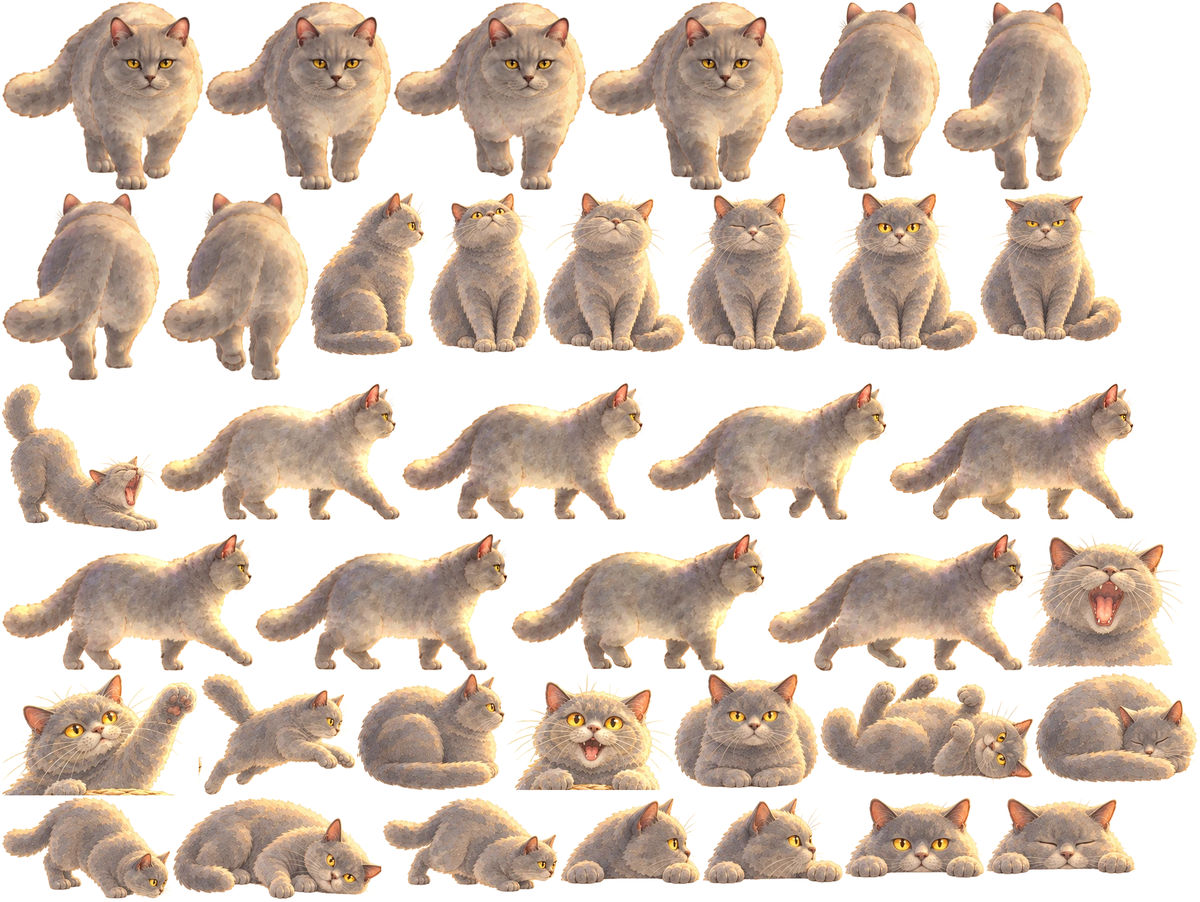
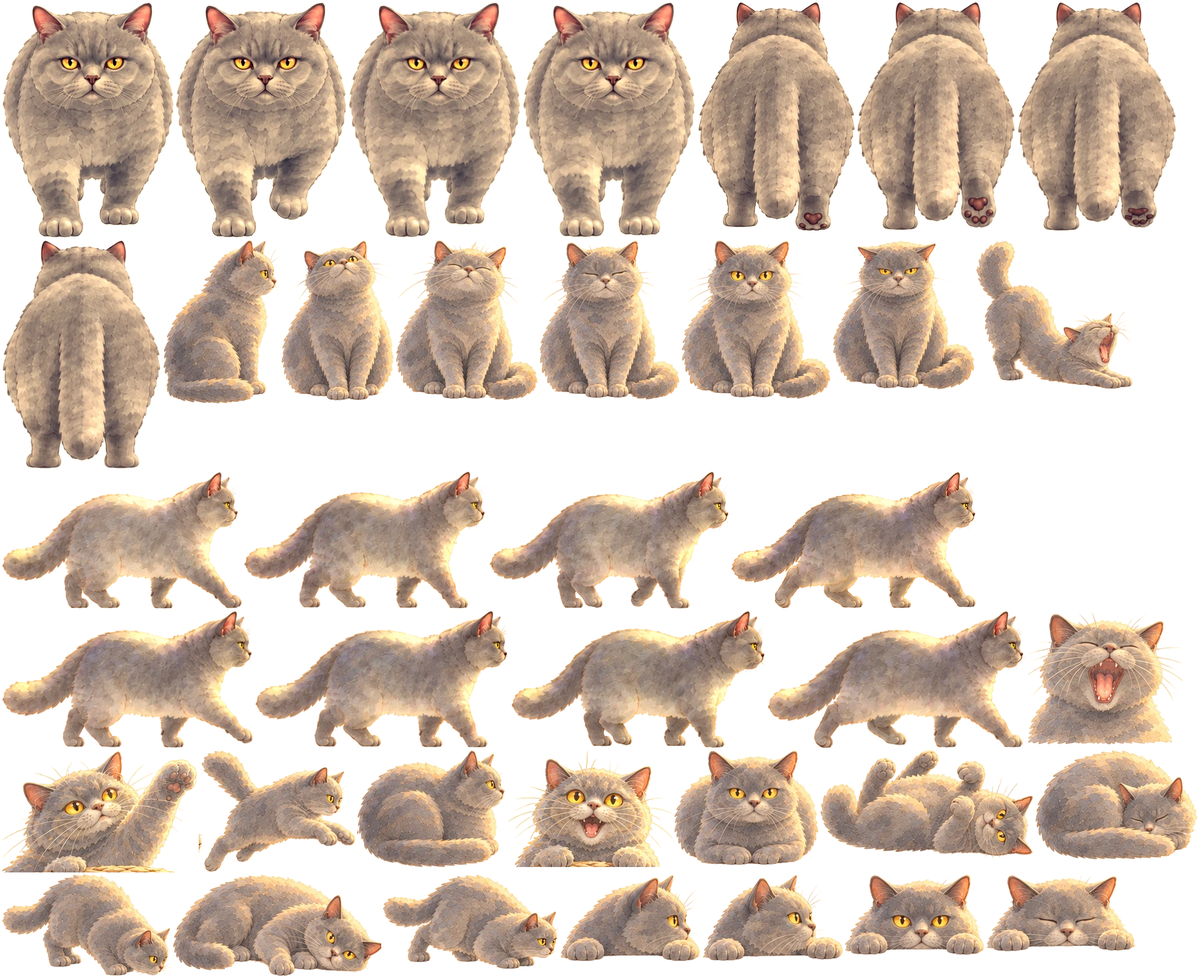
Pack Erwu's new front and back walks; fix the movement prompts' references
- The art build packs erwu-walk-front-4 and erwu-walk-back-4 (recoloured
  to her poses) in place of the retired erwu-walk-updown sheet.
- The game walks them as eight frames: the four drawn half-stride, then
  the same four mirrored, so her left and right paws take turns.
- ART-PROMPTS 8f: review of the correction batch and a check of every
  reference. The side walk's two half-strides share one outline, so a
  crop can't say which leg is nearer; prompts now name the legs for each
  frame, anchor each diagonal on a kept frame, and take the face from
  her front-facing sit. Lists the remaining diagonal frames and an
  optional face and light edit for the front and back sheets.

Claude-Session: https://claude.ai/code/session_01GWXKSyEvwFsod5xmdCeR4s

diff --git a/art-manifest.js b/art-manifest.js
@@ -1,5 +1,5 @@
 /* Generated by tools/build-art.cjs from the painted source sheets in assets/. Do not edit by hand. */
 (function (root) { 'use strict';
-  const ART = {"note":"frame: [x, y, w, h, anchorX, anchorY, sourceX, sourceY, bedRimWidth?]; anchors are where a piece meets the ground","erwu":{"src":"assets/erwu.webp","size":[2005,1506],"frames":{"sit-front":[1385,321,249,265,125,265,39,45],"sit-drowsy":[1148,321,234,266,117,266,321,44],"sit-content":[907,321,238,267,119,267,579,44],"curl":[1729,1124,273,183,137,183,834,129],"sniff":[3,1331,283,172,142,172,7,380],"stalk":[640,1331,294,159,147,159,292,393],"pounce":[332,1124,262,203,131,203,578,344],"stretch":[3,639,261,249,131,249,852,321],"loaf":[1127,1124,241,192,121,192,27,638],"sit-side":[518,321,195,273,98,273,299,568],"belly-up":[1371,1124,355,184,178,184,495,662],"yawn":[1718,891,258,223,129,223,851,618],"peek":[1412,1331,233,136,117,136,25,902],"peek-glance":[937,1331,234,147,117,147,296,891],"peek-turn":[1174,1331,235,146,118,146,568,893],"peek-sleepy":[1648,1331,250,130,125,130,842,910],"look-up":[716,321,188,269,94,269,632,1055],"sit-grumpy":[1637,321,237,250,119,250,868,1076],"lie-side":[289,1331,348,171,174,171,11,1137],"loaf-side":[597,1124,249,196,125,196,360,1119],"walk-0":[267,639,402,230,238,230,22,158],"walk-1":[672,639,406,230,240,230,451,159],"walk-2":[1081,639,401,230,241,230,890,159],"walk-3":[1485,639,410,230,250,230,1323,158],"walk-4":[3,891,421,230,246,230,24,503],"walk-5":[427,891,424,230,251,230,452,504],"walk-6":[854,891,426,230,252,230,888,508],"walk-7":[1283,891,432,230,257,230,1320,504],"walk-front-0":[3,3,337,315,193,315,75,105],"walk-front-1":[343,3,311,315,178,315,493,105],"walk-front-2":[657,3,322,315,185,315,902,104],"walk-front-3":[982,3,327,315,188,315,1324,105],"walk-back-0":[1312,3,259,315,156,315,117,477],"walk-back-1":[1574,3,249,315,144,315,536,477],"walk-back-2":[3,321,265,315,159,315,941,476],"walk-back-3":[271,321,244,315,141,315,1381,477],"swat":[3,1124,326,204,163,204,775,820],"delighted":[849,1124,275,195,138,195,1102,829]}},"garden":{"src":"assets/garden.webp","size":[2032,1938],"frames":{"rose-bed":[3,3,442,403,221,403,17,17],"fountain":[898,3,288,386,144,386,481,29],"log":[461,409,447,337,224,337,792,99],"cushion":[1686,1084,343,205,172,205,34,455],"stone":[834,1692,292,148,146,148,470,492],"step-0":[191,1852,186,81,93,81,903,443],"step-1":[3,1852,185,83,93,83,1043,488],"step-2":[1614,1692,193,101,97,101,819,520],"step-3":[1810,1692,200,95,100,95,991,569],"bed-empty":[1034,1084,384,233,192,233,21,685,385],"bed-seedlings":[658,1084,373,236,187,236,439,687,385],"bed-young":[3,1084,391,251,196,251,841,675,385],"bed-full":[911,409,401,305,201,305,19,919,385],"grass":[1315,409,401,302,201,302,426,926],"meadow":[3,782,410,299,205,299,828,927],"bloom-cosmos":[1731,782,258,253,129,253,11,153,259],"bloom-catnip":[1466,782,262,257,131,257,370,153,259],"bloom-sunflower":[416,782,261,279,131,279,731,122,259],"bloom-moonflower":[1203,782,260,259,130,259,1094,149,259],"bloom-dandelion":[397,1084,258,245,129,245,11,600,259],"bloom-bleeding-heart":[680,782,260,266,130,266,369,570,259],"bloom-strawberry":[1421,1084,262,227,131,227,729,624,259],"bloom-lavender":[943,782,257,260,129,260,1094,580,259],"clump-daisy":[1310,1526,163,157,82,157,29,50],"clump-forget":[484,1526,160,161,80,161,351,42],"clump-cosmos":[3,1526,151,163,76,163,660,38],"clump-lavender":[158,1338,154,175,77,175,962,20],"clump-clover":[1476,1526,157,157,79,157,32,358],"clump-buttercup":[473,1338,155,170,78,170,350,342],"clump-foxglove":[3,1338,152,185,76,185,663,319],"clump-bluebell":[631,1338,158,170,79,170,964,343],"clump-rose":[792,1338,169,168,85,168,26,640],"clump-fern":[166,1692,182,156,91,156,327,655],"clump-grass":[1636,1526,174,157,87,157,648,651],"clump-mushroom":[1467,1692,144,126,72,126,978,711],"clump-wild":[1472,1338,173,165,87,165,25,946],"clump-sweetpea":[315,1338,155,172,78,172,356,934],"clump-cornflower":[157,1526,155,163,78,163,661,948],"clump-leafy":[1295,1692,169,141,84,141,955,980],"clump-tulip":[679,1692,152,149,76,149,33,53],"clump-peony":[1813,1526,161,157,81,157,339,38],"clump-poppy":[647,1526,157,160,78,160,654,34],"clump-aster":[515,1692,161,151,81,151,961,52],"clump-crocus":[1129,1692,163,142,81,142,24,361],"clump-daffodil":[1303,1338,166,166,83,166,330,329],"clump-snowdrop":[351,1692,161,154,81,154,645,346],"clump-forget-spring":[3,1692,160,157,80,157,963,338],"clump-sedum":[1142,1526,165,158,83,158,23,644],"clump-seedgrass":[964,1338,178,167,89,167,321,628],"clump-autumn-shrub":[1648,1338,172,165,86,165,639,632],"clump-coneflower":[807,1526,157,160,79,160,967,639],"clump-hellebore":[315,1526,166,163,83,163,26,940],"clump-holly":[1823,1338,161,164,81,164,335,934],"clump-twigs":[1145,1338,155,167,77,167,648,934],"clump-frost-grass":[967,1526,172,159,86,159,944,941],"rose-bed-spring":[1189,3,418,380,209,380,93,84],"rose-bed-autumn":[448,3,447,401,223,401,58,29],"rose-bed-winter":[3,409,455,370,228,370,37,94]},"basket":{"cx":255,"cy":237,"rx":85,"ry":40,"outerRx":93,"outerRy":49,"bottom":318},"baskets":{"spring":{"cx":219.225,"cy":205.535,"rx":80.17899999999999,"ry":37.74,"outerRx":87.727,"outerRy":46.213,"bottom":281.90299999999996},"autumn":{"cx":230.547,"cy":210.604,"rx":88.171,"ry":41.477,"outerRx":96.45899999999999,"outerRy":50.838,"bottom":294.594},"winter":{"cx":241.31400000000002,"cy":182.632,"rx":92.241,"ry":43.400999999999996,"outerRx":100.899,"outerRy":53.169,"bottom":270.54400000000004}}},"visitors":{"src":"assets/visitors.webp","size":[2014,344],"frames":{"bluejay-perch":[1070,3,133,118,66,118,39,90],"bluejay-drink":[686,261,149,69,74,69,332,182],"bluejay-fly":[3,3,150,148,75,148,679,28],"cardinal-perch":[561,3,136,127,68,127,29,377],"cardinal-peck":[838,261,135,68,67,68,356,489],"cardinal-fly":[156,3,143,143,72,143,701,345],"junco-stand":[1187,154,117,82,59,82,43,725],"junco-peck":[1038,261,113,67,57,67,387,753],"junco-hop":[1386,154,119,81,59,81,712,708],"goldfinch-perch":[1574,3,115,111,57,111,45,958],"goldfinch-peck":[1681,154,120,80,60,80,369,1022],"goldfinch-fly":[433,3,125,135,62,135,736,888],"hummingbird-hover":[1206,3,138,117,69,117,39,1218],"hummingbird-feed":[338,154,153,103,77,103,378,1224],"hummingbird-perch":[3,154,105,104,53,104,768,1251],"cottontail-sit":[1692,3,98,110,49,110,73,33],"cottontail-nibble":[114,261,117,79,58,79,336,104],"cottontail-hop":[801,154,132,93,66,93,604,51],"squirrel-sit":[111,154,114,104,57,104,35,291],"squirrel-run":[936,154,159,91,80,91,286,314],"squirrel-dig":[1347,3,120,112,60,112,606,292],"chipmunk-sit":[1307,154,76,82,38,82,91,557],"chipmunk-cheeks":[1508,154,74,81,37,81,380,558],"chipmunk-run":[1585,261,139,56,69,56,587,590],"frog-sit":[1516,261,66,58,33,58,78,789],"frog-jump":[234,261,112,79,56,79,328,764],"frog-puff":[1437,261,76,60,38,60,671,787],"fox-stand":[936,3,131,120,65,120,15,940],"fox-walk":[1793,3,171,107,85,107,288,965],"fox-sit":[844,3,89,123,44,123,668,936],"bumblebee-side":[707,154,91,97,46,97,78,1224],"bumblebee-top":[1804,154,106,80,53,80,334,1242],"bumblebee-rest":[605,261,78,72,39,72,692,1245],"lunamoth-open":[700,3,141,127,70,127,30,1464],"lunamoth-side":[302,3,128,138,64,138,336,1438],"lunamoth-rest":[1470,3,101,112,50,112,637,1490],"feather":[349,261,77,79,39,79,69,97],"maple-leaf":[1098,154,86,83,43,83,367,79],"oak-leaf":[1585,154,93,81,47,81,666,92],"acorn":[1727,261,46,56,23,56,1047,119],"pine-cone":[976,261,59,68,30,68,86,393],"pebble":[1776,261,60,49,30,49,400,420],"cosmos-head":[429,261,92,75,46,75,671,386],"daisy-head":[1251,261,78,66,39,66,994,400],"acorn-shells":[524,261,78,74,39,74,83,674],"dug-earth":[1332,261,102,66,51,66,343,692],"seed-husks":[1154,261,94,67,47,67,665,681],"nibbled-clover":[1913,154,98,80,49,80,961,666],"rabbit-tracks":[494,154,103,101,51,101,33,935],"bird-tracks":[600,154,104,99,52,99,341,942],"fox-tracks":[228,154,107,104,53,104,646,932],"splash":[3,261,108,80,54,80,956,972]}},"play":{"src":"assets/play.webp","size":[2036,473],"frames":{"petal-white":[1382,257,214,134,107,134,48,78],"petal-pink":[1171,257,208,143,104,143,330,69],"centre":[1014,257,154,145,77,145,626,76],"pollen":[1599,257,104,109,52,109,926,100],"sun":[807,257,204,201,102,201,1146,42],"bud-tulip":[1844,3,189,213,95,213,64,292],"bud-rose":[211,257,201,212,101,212,326,295],"bud-peony":[3,257,205,213,103,213,591,293],"bud-poppy":[415,257,196,211,98,211,876,294],"bud-bell":[614,257,190,206,95,206,1143,301],"open-tulip":[237,3,230,247,115,247,36,537],"open-rose":[1482,3,242,231,121,231,295,548],"open-peony":[980,3,246,238,123,238,570,544],"open-poppy":[1229,3,250,236,125,236,844,549],"open-bell":[3,3,231,251,116,251,1134,534],"basket":[470,3,309,245,155,245,22,821],"seed-pod":[1727,3,114,217,57,217,390,838],"dandelion":[782,3,195,240,98,240,558,819]},"basket":{"cx":178,"cy":925,"rx":125,"ry":50,"outerRx":153,"outerRy":80,"bottom":1062}},"lawn":{"src":"assets/garden-plate-summer.webp","seasons":{"spring":"assets/garden-plate-spring.webp","summer":"assets/garden-plate-summer.webp","autumn":"assets/garden-plate-autumn.webp","winter":"assets/garden-plate-winter.webp"},"fountain":{"x":0.205,"y":0.268,"width":0.27},"log":{"x":0.835,"y":0.262,"width":0.29}}};
+  const ART = {"note":"frame: [x, y, w, h, anchorX, anchorY, sourceX, sourceY, bedRimWidth?]; anchors are where a piece meets the ground","erwu":{"src":"assets/erwu.webp","size":[2005,1635],"frames":{"sit-front":[1139,401,249,265,125,265,39,45],"sit-drowsy":[902,401,234,266,117,266,321,44],"sit-content":[661,401,238,267,119,267,579,44],"curl":[1729,1253,273,183,137,183,834,129],"sniff":[3,1460,283,172,142,172,7,380],"stalk":[640,1460,294,159,147,159,292,393],"pounce":[332,1253,262,203,131,203,578,344],"stretch":[1631,401,261,249,131,249,852,321],"loaf":[1127,1253,241,192,121,192,27,638],"sit-side":[272,401,195,273,98,273,299,568],"belly-up":[1371,1253,355,184,178,184,495,662],"yawn":[1718,1020,258,223,129,223,851,618],"peek":[1412,1460,233,136,117,136,25,902],"peek-glance":[937,1460,234,147,117,147,296,891],"peek-turn":[1174,1460,235,146,118,146,568,893],"peek-sleepy":[1648,1460,250,130,125,130,842,910],"look-up":[470,401,188,269,94,269,632,1055],"sit-grumpy":[1391,401,237,250,119,250,868,1076],"lie-side":[289,1460,348,171,174,171,11,1137],"loaf-side":[597,1253,249,196,125,196,360,1119],"walk-0":[3,787,402,230,238,230,22,158],"walk-1":[408,787,406,230,240,230,451,159],"walk-2":[817,787,401,230,241,230,890,159],"walk-3":[1221,787,410,230,250,230,1323,158],"walk-4":[3,1020,421,230,246,230,24,503],"walk-5":[427,1020,424,230,251,230,452,504],"walk-6":[854,1020,426,230,252,230,888,508],"walk-7":[1283,1020,432,230,257,230,1320,504],"walk-front-0":[3,3,287,395,145,395,79,216],"walk-front-1":[293,3,286,395,144,395,522,216],"walk-front-2":[582,3,288,395,145,395,964,216],"walk-front-3":[873,3,289,395,146,395,1406,216],"walk-back-0":[1165,3,264,383,133,383,88,243],"walk-back-1":[1432,3,264,383,133,383,534,243],"walk-back-2":[1699,3,267,383,135,383,975,243],"walk-back-3":[3,401,266,383,134,383,1419,243],"swat":[3,1253,326,204,163,204,775,820],"delighted":[849,1253,275,195,138,195,1102,829]}},"garden":{"src":"assets/garden.webp","size":[2032,1938],"frames":{"rose-bed":[3,3,442,403,221,403,17,17],"fountain":[898,3,288,386,144,386,481,29],"log":[461,409,447,337,224,337,792,99],"cushion":[1686,1084,343,205,172,205,34,455],"stone":[834,1692,292,148,146,148,470,492],"step-0":[191,1852,186,81,93,81,903,443],"step-1":[3,1852,185,83,93,83,1043,488],"step-2":[1614,1692,193,101,97,101,819,520],"step-3":[1810,1692,200,95,100,95,991,569],"bed-empty":[1034,1084,384,233,192,233,21,685,385],"bed-seedlings":[658,1084,373,236,187,236,439,687,385],"bed-young":[3,1084,391,251,196,251,841,675,385],"bed-full":[911,409,401,305,201,305,19,919,385],"grass":[1315,409,401,302,201,302,426,926],"meadow":[3,782,410,299,205,299,828,927],"bloom-cosmos":[1731,782,258,253,129,253,11,153,259],"bloom-catnip":[1466,782,262,257,131,257,370,153,259],"bloom-sunflower":[416,782,261,279,131,279,731,122,259],"bloom-moonflower":[1203,782,260,259,130,259,1094,149,259],"bloom-dandelion":[397,1084,258,245,129,245,11,600,259],"bloom-bleeding-heart":[680,782,260,266,130,266,369,570,259],"bloom-strawberry":[1421,1084,262,227,131,227,729,624,259],"bloom-lavender":[943,782,257,260,129,260,1094,580,259],"clump-daisy":[1310,1526,163,157,82,157,29,50],"clump-forget":[484,1526,160,161,80,161,351,42],"clump-cosmos":[3,1526,151,163,76,163,660,38],"clump-lavender":[158,1338,154,175,77,175,962,20],"clump-clover":[1476,1526,157,157,79,157,32,358],"clump-buttercup":[473,1338,155,170,78,170,350,342],"clump-foxglove":[3,1338,152,185,76,185,663,319],"clump-bluebell":[631,1338,158,170,79,170,964,343],"clump-rose":[792,1338,169,168,85,168,26,640],"clump-fern":[166,1692,182,156,91,156,327,655],"clump-grass":[1636,1526,174,157,87,157,648,651],"clump-mushroom":[1467,1692,144,126,72,126,978,711],"clump-wild":[1472,1338,173,165,87,165,25,946],"clump-sweetpea":[315,1338,155,172,78,172,356,934],"clump-cornflower":[157,1526,155,163,78,163,661,948],"clump-leafy":[1295,1692,169,141,84,141,955,980],"clump-tulip":[679,1692,152,149,76,149,33,53],"clump-peony":[1813,1526,161,157,81,157,339,38],"clump-poppy":[647,1526,157,160,78,160,654,34],"clump-aster":[515,1692,161,151,81,151,961,52],"clump-crocus":[1129,1692,163,142,81,142,24,361],"clump-daffodil":[1303,1338,166,166,83,166,330,329],"clump-snowdrop":[351,1692,161,154,81,154,645,346],"clump-forget-spring":[3,1692,160,157,80,157,963,338],"clump-sedum":[1142,1526,165,158,83,158,23,644],"clump-seedgrass":[964,1338,178,167,89,167,321,628],"clump-autumn-shrub":[1648,1338,172,165,86,165,639,632],"clump-coneflower":[807,1526,157,160,79,160,967,639],"clump-hellebore":[315,1526,166,163,83,163,26,940],"clump-holly":[1823,1338,161,164,81,164,335,934],"clump-twigs":[1145,1338,155,167,77,167,648,934],"clump-frost-grass":[967,1526,172,159,86,159,944,941],"rose-bed-spring":[1189,3,418,380,209,380,93,84],"rose-bed-autumn":[448,3,447,401,223,401,58,29],"rose-bed-winter":[3,409,455,370,228,370,37,94]},"basket":{"cx":255,"cy":237,"rx":85,"ry":40,"outerRx":93,"outerRy":49,"bottom":318},"baskets":{"spring":{"cx":219.225,"cy":205.535,"rx":80.17899999999999,"ry":37.74,"outerRx":87.727,"outerRy":46.213,"bottom":281.90299999999996},"autumn":{"cx":230.547,"cy":210.604,"rx":88.171,"ry":41.477,"outerRx":96.45899999999999,"outerRy":50.838,"bottom":294.594},"winter":{"cx":241.31400000000002,"cy":182.632,"rx":92.241,"ry":43.400999999999996,"outerRx":100.899,"outerRy":53.169,"bottom":270.54400000000004}}},"visitors":{"src":"assets/visitors.webp","size":[2014,344],"frames":{"bluejay-perch":[1070,3,133,118,66,118,39,90],"bluejay-drink":[686,261,149,69,74,69,332,182],"bluejay-fly":[3,3,150,148,75,148,679,28],"cardinal-perch":[561,3,136,127,68,127,29,377],"cardinal-peck":[838,261,135,68,67,68,356,489],"cardinal-fly":[156,3,143,143,72,143,701,345],"junco-stand":[1187,154,117,82,59,82,43,725],"junco-peck":[1038,261,113,67,57,67,387,753],"junco-hop":[1386,154,119,81,59,81,712,708],"goldfinch-perch":[1574,3,115,111,57,111,45,958],"goldfinch-peck":[1681,154,120,80,60,80,369,1022],"goldfinch-fly":[433,3,125,135,62,135,736,888],"hummingbird-hover":[1206,3,138,117,69,117,39,1218],"hummingbird-feed":[338,154,153,103,77,103,378,1224],"hummingbird-perch":[3,154,105,104,53,104,768,1251],"cottontail-sit":[1692,3,98,110,49,110,73,33],"cottontail-nibble":[114,261,117,79,58,79,336,104],"cottontail-hop":[801,154,132,93,66,93,604,51],"squirrel-sit":[111,154,114,104,57,104,35,291],"squirrel-run":[936,154,159,91,80,91,286,314],"squirrel-dig":[1347,3,120,112,60,112,606,292],"chipmunk-sit":[1307,154,76,82,38,82,91,557],"chipmunk-cheeks":[1508,154,74,81,37,81,380,558],"chipmunk-run":[1585,261,139,56,69,56,587,590],"frog-sit":[1516,261,66,58,33,58,78,789],"frog-jump":[234,261,112,79,56,79,328,764],"frog-puff":[1437,261,76,60,38,60,671,787],"fox-stand":[936,3,131,120,65,120,15,940],"fox-walk":[1793,3,171,107,85,107,288,965],"fox-sit":[844,3,89,123,44,123,668,936],"bumblebee-side":[707,154,91,97,46,97,78,1224],"bumblebee-top":[1804,154,106,80,53,80,334,1242],"bumblebee-rest":[605,261,78,72,39,72,692,1245],"lunamoth-open":[700,3,141,127,70,127,30,1464],"lunamoth-side":[302,3,128,138,64,138,336,1438],"lunamoth-rest":[1470,3,101,112,50,112,637,1490],"feather":[349,261,77,79,39,79,69,97],"maple-leaf":[1098,154,86,83,43,83,367,79],"oak-leaf":[1585,154,93,81,47,81,666,92],"acorn":[1727,261,46,56,23,56,1047,119],"pine-cone":[976,261,59,68,30,68,86,393],"pebble":[1776,261,60,49,30,49,400,420],"cosmos-head":[429,261,92,75,46,75,671,386],"daisy-head":[1251,261,78,66,39,66,994,400],"acorn-shells":[524,261,78,74,39,74,83,674],"dug-earth":[1332,261,102,66,51,66,343,692],"seed-husks":[1154,261,94,67,47,67,665,681],"nibbled-clover":[1913,154,98,80,49,80,961,666],"rabbit-tracks":[494,154,103,101,51,101,33,935],"bird-tracks":[600,154,104,99,52,99,341,942],"fox-tracks":[228,154,107,104,53,104,646,932],"splash":[3,261,108,80,54,80,956,972]}},"play":{"src":"assets/play.webp","size":[2036,473],"frames":{"petal-white":[1382,257,214,134,107,134,48,78],"petal-pink":[1171,257,208,143,104,143,330,69],"centre":[1014,257,154,145,77,145,626,76],"pollen":[1599,257,104,109,52,109,926,100],"sun":[807,257,204,201,102,201,1146,42],"bud-tulip":[1844,3,189,213,95,213,64,292],"bud-rose":[211,257,201,212,101,212,326,295],"bud-peony":[3,257,205,213,103,213,591,293],"bud-poppy":[415,257,196,211,98,211,876,294],"bud-bell":[614,257,190,206,95,206,1143,301],"open-tulip":[237,3,230,247,115,247,36,537],"open-rose":[1482,3,242,231,121,231,295,548],"open-peony":[980,3,246,238,123,238,570,544],"open-poppy":[1229,3,250,236,125,236,844,549],"open-bell":[3,3,231,251,116,251,1134,534],"basket":[470,3,309,245,155,245,22,821],"seed-pod":[1727,3,114,217,57,217,390,838],"dandelion":[782,3,195,240,98,240,558,819]},"basket":{"cx":178,"cy":925,"rx":125,"ry":50,"outerRx":153,"outerRy":80,"bottom":1062}},"lawn":{"src":"assets/garden-plate-summer.webp","seasons":{"spring":"assets/garden-plate-spring.webp","summer":"assets/garden-plate-summer.webp","autumn":"assets/garden-plate-autumn.webp","winter":"assets/garden-plate-winter.webp"},"fountain":{"x":0.205,"y":0.268,"width":0.27},"log":{"x":0.835,"y":0.262,"width":0.29}}};
   if (typeof module === 'object' && module.exports) module.exports = ART; else root.BloomArt = ART;
 })(typeof globalThis === 'object' ? globalThis : this);

diff --git a/index.html b/index.html
@@ -5357,8 +5357,11 @@
   // one frame has fades with that frame, instead of lingering at full strength over the next.
   let walkCanvas = null, walkView = { view: 'side', from: null, since: -1e9 }, lastWalk = null, turnFacing = { facing: 1, since: -1e9 };
   const TURN_MS = 200;
-  const WALK_FRAMES = { side: 8, front: 4, back: 4 };
-  const walkName = (view, i) => view === 'side' ? `walk-${i}` : `walk-${view}-${i}`;
+  // Toward and away from us, the sheets hold half a stride (four frames); the other half is the
+  // same frames mirrored, which swaps her left and right paws.
+  const WALK_FRAMES = { side: 8, front: 8, back: 8 }, WALK_HALF = { front: 4, back: 4 };
+  const walkName = (view, i) => view === 'side' ? `walk-${i}` : `walk-${view}-${i % WALK_HALF[view]}`;
+  const walkLayer = (view, i, weight, flip) => ({ name: walkName(view, i), weight, flip: WALK_HALF[view] && i >= WALK_HALF[view] ? !flip : flip });
   function paintWalk(layers, x, y, h, alpha) {
     const parts = layers.filter((l) => l.weight > 0.01 && ART.erwu.frames[l.name]).map((l) => {
       const f = ART.erwu.frames[l.name], k = h / f[3], a = f[4] * k, b = (f[2] - f[4]) * k;
@@ -5392,11 +5395,11 @@
       if (view !== walkView.view) walkView = { view, from: walkView.view, since: now };
       const n = WALK_FRAMES[view], phase = ((erwu.phase / TAU) % 1 + 1) % 1 * n, i = reduced ? 0 : Math.floor(phase) % n;
       const flip = view === 'side' && erwu.facing < 0, u = Math.max(0, (phase % 1 - 0.5) / 0.5), m = reduced ? 0 : u * u * (3 - 2 * u);
-      let layers = [{ name: walkName(view, i), weight: 1 - m, flip }, { name: walkName(view, (i + 1) % n), weight: m, flip }];
+      let layers = [walkLayer(view, i, 1 - m, flip), walkLayer(view, (i + 1) % n, m, flip)];
       const k = reduced ? 1 : Math.min(1, (now - walkView.since) / 220);
       if (k < 1 && walkView.from) {
-        const fromFrame = walkName(walkView.from, Math.floor(((erwu.phase / TAU) % 1 + 1) % 1 * WALK_FRAMES[walkView.from]) % WALK_FRAMES[walkView.from]);
-        layers = [{ name: fromFrame, weight: 1 - k, flip: walkView.from === 'side' && erwu.facing < 0 }, { name: walkName(view, i), weight: k, flip }];
+        const from = walkView.from, fi = Math.floor(((erwu.phase / TAU) % 1 + 1) % 1 * WALK_FRAMES[from]) % WALK_FRAMES[from];
+        layers = [walkLayer(from, fi, 1 - k, from === 'side' && erwu.facing < 0), walkLayer(view, i, k, flip)];
       }
       // turning round side-on: she narrows to a sliver and widens again the other way, rather
       // than mirroring in a single frame
@@ -5409,7 +5412,7 @@
       ctx.save(); ctx.translate(erwu.at.x, 0); ctx.scale(sx, 1); ctx.translate(-erwu.at.x, 0);
       paintWalk(layers, erwu.at.x, erwu.at.y, walkH, alpha);
       ctx.restore();
-      lastWalk = view === 'side' ? null : { name: walkName(view, i), t: now };
+      lastWalk = view === 'side' ? null : { ...walkLayer(view, i, 1, false), t: now };
       return true;
     }
     let name = paintedErwuPose(pose, nest), floor = erwu.at.y;
@@ -5420,7 +5423,7 @@
     const lift = pose === 'pounce' ? (erwu.jump || 0) * size * 0.55 : 0;
     // just stopped after walking toward or away from us: that view fades into the new pose
     const settle = lastWalk && !nest && !reduced ? Math.min(1, (now - lastWalk.t) / 260) : 1;
-    if (settle < 1) paintWalk([{ name: lastWalk.name, weight: 1, flip: false }], erwu.at.x, erwu.at.y, walkH, alpha * (1 - settle));
+    if (settle < 1) paintWalk([{ name: lastWalk.name, weight: 1, flip: lastWalk.flip }], erwu.at.x, erwu.at.y, walkH, alpha * (1 - settle));
     else lastWalk = null;
     ctx.save(); ctx.globalAlpha *= alpha * settle;
     if (!nest) groundShadow(ctx, erwu.at.x, floor, f[2] * unit * 0.8 * (1 - Math.min(0.4, lift / size)), 0.2);

diff --git a/.scratch/living-garden/ART-PROMPTS.md b/.scratch/living-garden/ART-PROMPTS.md
@@ -203,13 +203,15 @@ Flat plain light grey background (#E6E6E6) everywhere, with no ground beyond the
 
 ## 8. Erwu's movement frames (optional: for a smoother walk)
 
+**Current state (2026-09-29):** the front and back walks are packed (`erwu-walk-front-4.png`, `erwu-walk-back-4.png`); what's still needed is in [8f](#8f-correction-batch-review-reference-check-and-whats-still-needed). The prompts 8a–8d below are kept for the record.
+
 Generation update: all four source candidates are saved under the filenames below. See [the movement generation handoff](ERWU-MOVEMENT-GENERATION.md) for the generation notes, and **[8e. Review of the 2026-09-29 candidates](#8e-review-of-the-2026-09-29-candidates)** for what's wrong with them and the correction prompts. **Not packed.** Only the transitions sheet (8d) is usable as it stands.
 
 These fill the gaps the walk review found (`.scratch/erwu-walk-review/README.md`): diagonal views so changes of direction don't swap between two very different drawings, twice as many front and back frames, and a few transition poses. Priority order: 8a and 8b first (biggest improvement), then 8c, then 8d.
 
 Generated frames tend to drift from each other. For each sheet, check before using it: the same cat in every frame, paws on one line, legs alternating (a paw on the ground stays in place while the body moves over it). If one frame is off, regenerate just that sheet.
 
-Attach to every image in this section: `assets/erwu-walk-v2.png` (the side walk: the master model), `assets/erwu-walk-updown.png` (front and back) and `assets/erwu-sprite-v2.png` (her poses). Their colours already match in the game, so match the side walk.
+Attach to every image in this section: `assets/erwu-walk-v2.png` (the side walk: the style master). **Superseded 2026-09-29:** don't attach `erwu-walk-updown.png` (retired) or the whole poses sheet. Name the legs explicitly. See [8f](#8f-correction-batch-review-reference-check-and-whats-still-needed) for the checked reference list and the current prompts.
 
 ### 8a. Walking diagonally toward us → `assets/erwu-walk-diag-front.png`
 Size: landscape, 2048 × 1024 or larger.
@@ -406,6 +408,100 @@ Flat plain light grey background (#E6E6E6), no floor, no shadow, no text, no gri
 ```
 
 **Checks before sending a sheet to me:** frames 1 and 4 (or 1 and 5) should show **different** legs forward. The tail should be centred in the front and back views. The cat should look the same size as in the side walk when the two are shown at the same height.
+
+### 8f. Correction batch review, reference check and what's still needed
+
+Reviewed 2026-09-29 (develop `5e354de`).
+
+#### Packed: the front and back walks
+
+`erwu-walk-front-4.png` and `erwu-walk-back-4.png` are in the game. The art build recolours them to her poses. The game mirrors each half-stride for the other half: frames 5–8 are frames 1–4 flipped. The legs alternate correctly now. They replace `erwu-walk-updown.png`, which is retired, so don't attach it any more.
+
+Still wrong with them, to fix by editing (below): the front face scowls (heavy, lowered brows), the light is flat and cool, and the back view's paw pads are dark red-brown blotches.
+
+#### Why the generator keeps getting the legs wrong: the reference check
+
+| Reference | Correct? | Finding |
+|---|---|---|
+| `walk-candidates-review/references/side-1/3/5/7.png` | **The crops are exact** | Pixel-identical to side-walk frames 1, 3, 5 and 7, the same regions the art build cuts. |
+| `assets/erwu-walk-v2.png`, as the source of **leg positions** | **No: this is the root cause** | Its frames 5–8 have the same outline as frames 1–4, and the near and far legs are painted the same colour, with no overlap to show depth. From the side, a cat's two half-strides really do look alike, which is fine in the game, where only the outline shows. But "keep the same leg positions as this frame" can't tell the generator **which** paw is the near one. Given frame 5, it reproduces frame 1, and that's why frames 5 and 7 needed hand-written leg swaps. **Every prompt must now name the near and far leg explicitly** (table below) and never rely on the crop for leg identity. |
+| `assets/erwu-walk-v2.png`, as the **style** reference | Yes | It's the look of the game's walk, scalloped fur included. |
+| `assets/erwu-walk-updown.png` | **No longer** | Retired. Its tail swept to one side and it repeated one leg, and attaching it passed both faults into the first 8c sheet. |
+| `assets/erwu-sprite-v2.png` (the whole poses sheet) | **Too broad** | Twenty poses, with a big fluffy tail and a darker coat. Attached whole, it drew the new cats heavier and fluffier. For the **face**, attach only a crop of her front-facing sit (below). |
+| "Match the side walk's colour" | **Wrong reason** | The game recolours every walk frame to her **poses** sheet, not to the side walk; the side walk source is paler than what's shown. Colour gets corrected automatically. What the build can't fix is **light direction and face**, so the prompts now pin those instead. |
+| "Pale charcoal-grey", "heavy-lidded", "muted neutral light" | **Misleading words** | "Charcoal" plus "neutral light" gave the cool dark relit sheets. "Heavy-lidded" became a frown in the front view. They are replaced below. |
+
+Crop to make once (in any image editor), saved next to the other references:
+- `walk-candidates-review/references/face-sit-front.png`: `assets/erwu-sprite-v2.png`, x 34, y 42, width 256, height 272. Her calm, front-facing sit: the face to copy.
+
+#### Leg identity for every side-walk frame
+
+"Near" is the side facing the camera. The painting doesn't show which leg is which, so this table **defines** it. When turning to a diagonal, the near legs stay the ones nearest us. From the side, frames 5–8 look like 1–4, but the legs are swapped:
+
+| Side frame | Front legs | Hind legs |
+|---|---|---|
+| 1 | **near** reaching forward, planted; far under the chest, planted | far forward, near back |
+| 2 | near planted under the shoulder; **far** lifting | far planted; near lifting |
+| 3 | **far** passing forward, bent, lifted; near planted | near passing forward |
+| 4 | **far** reaching, about to land; near back | near forward, far back |
+| 5 | **far** reaching forward, planted; near under the chest, planted | near forward, far back |
+| 6 | far planted under the shoulder; **near** lifting | near planted; far lifting |
+| 7 | **near** passing forward, bent, lifted; far planted | far passing forward |
+| 8 | **near** reaching, about to land; far back | far forward, near back |
+
+#### What's still needed, in priority order
+
+1. **The diagonals, as one set that matches (8a-2, 8b-2).** Keep diagonal toward frames 1, 5 and 7, and away frame 1. Redo toward frame 3, which is shorter and has a bigger head, and away frames 5 (wider and more golden) and 7 (head side-on, body thinner). Then add frames 2, 4, 6 and 8 in both views. Four frames per stride makes the dissolve show a double set of legs halfway through. Generate each frame on its own, attaching **the kept frame 1 of that view** as the anchor for size, head angle, tail and light.
+2. **A front/back touch-up (8c-3):** edit the two packed sheets for her face and light. Optional; they already work.
+3. **Transitions:** nothing new. Stopping while walking away uses the back walk's last frame (all paws down), so the "stopped, facing away" pose in `erwu-transitions-2.png` isn't needed. The turn-away, landing and mid-hop poses are good.
+
+Attach, for every prompt below:
+- `assets/erwu-walk-v2.png` (the style)
+- `references/face-sit-front.png` (the face)
+- the side crop for the frame (the pose)
+- for the diagonals, the anchor frame
+
+Crop the missing side frames 2, 4, 6 and 8 the same way as 1, 3, 5 and 7. The regions in `tools/build-art.cjs`, as x, y, width, height:
+- frame 2: 444, 152, 412, 240
+- frame 4: 1320, 152, 420, 240
+- frame 6: 448, 500, 412, 228
+- frame 8: 1316, 500, 424, 232
+
+**8a-2. Diagonal toward, one frame → `assets/erwu-diag-front-<n>.png`**
+```
+Draw ONE cat walking diagonally TOWARD the viewer and to the right, turned 45 degrees toward us: we see her face, her chest, her near shoulder and both front legs; her body shortens as it goes back; her hips and tail are partly behind her. Camera about 15 degrees above the ground.
+
+MATCH THE ANCHOR IMAGE (the attached three-quarter cat) exactly in size, body length, head size and angle, tail shape, fur and lighting: this frame goes in the same animation, so it must look like the same drawing with only the legs moved. Style of the attached side-view walk sheet: painted storybook look, soft layered grey fur, warm soft light from the upper left, a gentle warm edge (no orange outline, no jagged rim). Her face is the attached front-facing face: calm, round, soft relaxed brows, gentle amber eyes.
+
+LEGS, exactly as follows (near = the side toward us):
+[paste the two cells of the table row for frame n]
+Use the attached side-view frame only for how far each leg reaches and bends; the near and far legs are named above, not by the side frame.
+
+Every planted paw touches one flat ground line. One cat, centred, wide empty space around her, flat plain light grey background (#E6E6E6), no floor, no shadow, no text.
+```
+
+**8b-2. Diagonal away, one frame → `assets/erwu-diag-back-<n>.png`**
+
+Like 8a-2, but with the first paragraph:
+```
+Draw ONE cat walking diagonally AWAY from the viewer and to the right, turned 45 degrees away from us: we see her round hindquarters and the backs of her thighs nearest us, her back, the back of her head, one ear and a sliver of cheek; her tail low and relaxed, toward us. Camera about 15 degrees above the ground.
+```
+and without the face sentence (her face doesn't show).
+
+**8c-3. Front/back touch-up → edit `assets/erwu-walk-front-4.png` and `assets/erwu-walk-back-4.png` in place**
+```
+Edit this sprite sheet. Keep EVERY pose, leg position, size, position and the grey background exactly as they are; the legs are correct.
+Change only:
+- the light: warm, soft light from above and slightly in front of her, EQUAL on both sides (these frames are mirrored), giving the warm pale grey of the attached side-view walk with a faint warm glow on top of the head and back; not a cool or charcoal grey;
+- [front sheet] her face, to the attached front-facing face: calm and round, soft relaxed brows, gentle amber eyes, no frown;
+- [back sheet] the paw pads: small, soft dusty pink, barely showing, not dark red-brown.
+No orange outline, no other changes.
+```
+
+**Checks before sending:**
+- Laid over each other, the diagonal frames match in body length and head size, within about 5%.
+- Frame *n* and frame *n*+4 have **opposite** legs forward.
+- The front/back sheets still line up with their old frames, so their legs haven't moved.
 
 ## After generating
 

diff --git a/.scratch/living-garden/README.md b/.scratch/living-garden/README.md
@@ -70,7 +70,7 @@ Because the owner's garden has blue jays and cottontails (North America), the wh
 | 06 | Implemented with Erwu's reactions; the owner's look at the cottontail and blue jay remains |
 | 07 | Implemented and balanced against bot runs |
 | 08 | Done: seasonal backdrops and rose beds |
-| 09–10 | Done. Erwu's toward/away walk sheet is held back (style mismatch; see 10) |
+| 09–10 | Done. Erwu's front and back walks packed (half-strides mirrored); the diagonals are still being generated (ART-PROMPTS 8f) |
 | 11 | Synthesised soundscape implemented; bird calls would need recordings |
 | [12](12-skill-shots-and-celebrations.md) | Bank shots, chain blooms, and celebrations on existing moments |
 
